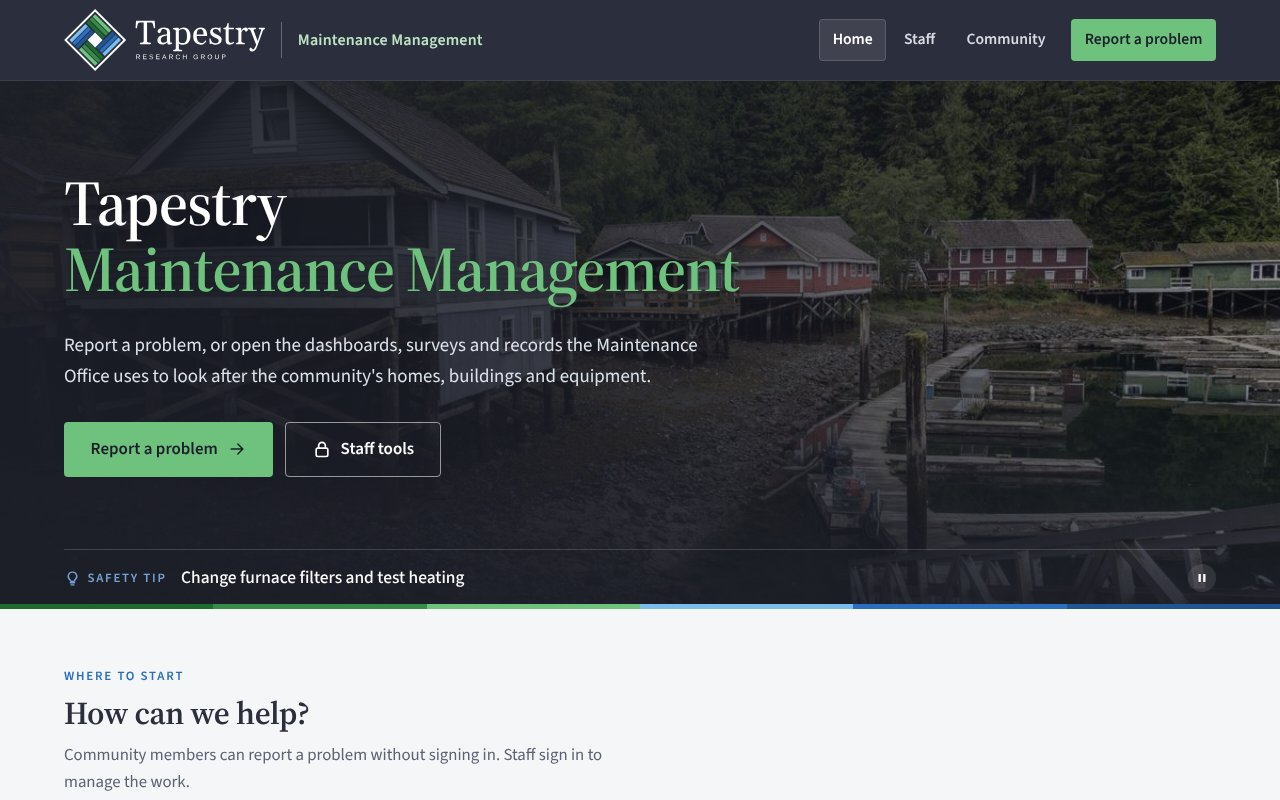
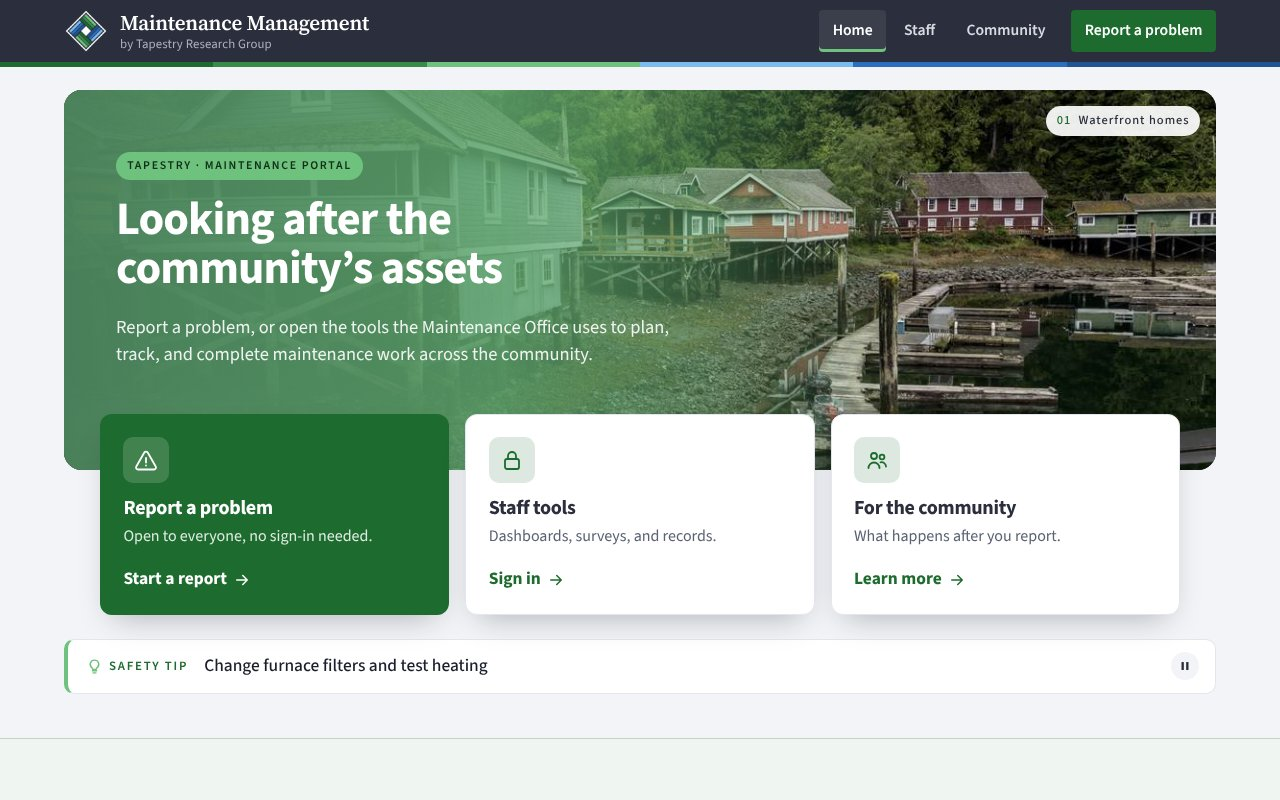
Add files via upload

diff --git a/_includes/demo-band.html b/_includes/demo-band.html
@@ -17,7 +17,7 @@
     </div>
     <a class="bframe" href="{{ site.demo_url }}" target="_blank" rel="noopener" aria-label="Open the Maintenance Management demo">
       <span class="bbar" aria-hidden="true"><i></i><i></i><i></i><span>{{ site.demo_url | remove: "https://" }}</span></span>
-      <img src="images/demo-portal.jpg" alt="Home page of the Maintenance Management demo portal" width="1280" height="800" loading="lazy">
+      <img src="images/demo-portal.jpg?v=2" alt="Home page of the Maintenance Management demo portal" width="1280" height="800" loading="lazy">
     </a>
   </div>
 </section>
